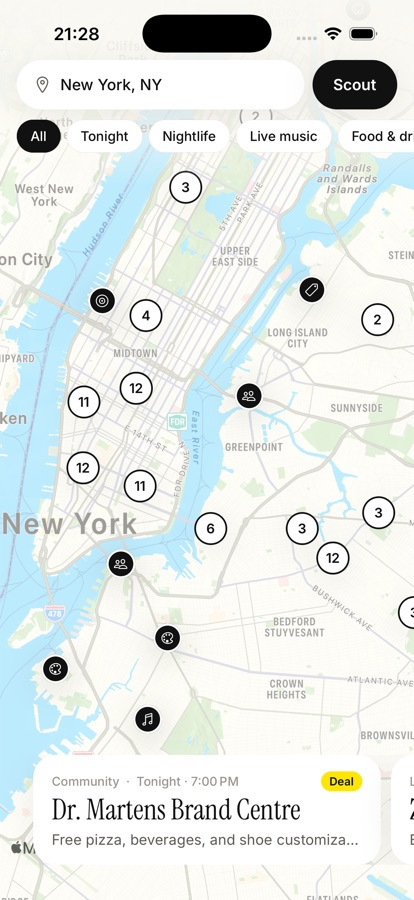
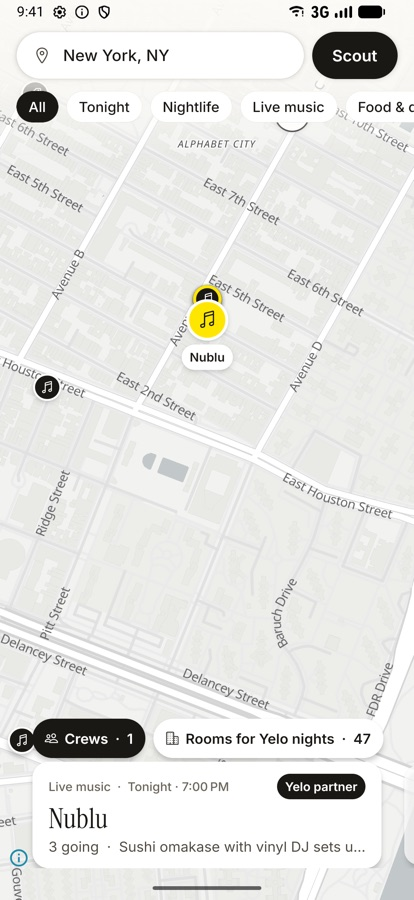
Download: build 5, fresh screenshots of the current app (map, spot, crew, rooms), accurate copy

diff --git a/site/index.html b/site/index.html
@@ -115,18 +115,18 @@
       <div class="eyebrow">A prototype built for Yelo by Farhan Sadeek</div>
       <h1>Find tonight's spots. Ride there for <em>less.</em></h1>
       <p class="lede">
-        Scout searches the web every morning for events, parties and happy hours in New York and Los Angeles,
+        Scout searches the web every few minutes for events, parties and happy hours in New York and Los Angeles,
         puts them on one map, and shows what a ride there costs. Yelo's partner venues come first.
       </p>
 
       <div class="get">
-        <a class="btn" href="https://expo.dev/artifacts/eas/HzlB0z1kTpeX4gkxvrbFKGHwZ0tDr_WKBRV1ZuLNs6M.apk" target="_blank" rel="noopener">
+        <a class="btn" href="https://expo.dev/artifacts/eas/b3r9HVFXIml9LLvEITFkU4nNjS6E40pVc_gdzTTdGA0.apk" target="_blank" rel="noopener">
           <svg viewBox="0 0 24 24" fill="none" stroke="currentColor" stroke-width="2" stroke-linecap="round" stroke-linejoin="round" aria-hidden="true"><path d="M12 4v11"/><path d="m7 10 5 5 5-5"/><path d="M5 20h14"/></svg>
           Download for Android
         </a>
         <div class="meta">
           <span>APK, installs directly. No Play Store needed.</span>
-          <a href="https://expo.dev/accounts/fsadeek/projects/scout/builds/4217e39b-9841-4e84-bd96-0c8027110ff3" target="_blank" rel="noopener">Or open the install page</a>
+          <a href="https://expo.dev/accounts/fsadeek/projects/scout/builds/2f256806-e82d-40ee-a000-87b06fb1e896" target="_blank" rel="noopener">Or open the install page</a>
         </div>
       </div>
 
@@ -136,7 +136,7 @@
       </div>
     </div>
 
-    <div class="phone"><img src="shot-map.jpg" alt="Scout's map of New York with grouped spots and a card for Nublu 151, a Yelo partner, tonight at 7 PM" width="414" height="900"></div>
+    <div class="phone"><img src="shot-map.jpg" alt="Scout's map of New York with grouped spots, Crews and Rooms buttons, and a card for Nublu, a Yelo partner, tonight at 7 PM" width="414" height="900"></div>
   </div>
 
   <section aria-labelledby="inside">
@@ -146,11 +146,11 @@
     </div>
     <div class="screens">
       <figure><img src="shot-map.jpg" alt="Map of New York spots" loading="lazy" width="414" height="900">
-        <figcaption><b>One map for the night</b>133 spots in New York this week, grouped so the map stays readable.</figcaption></figure>
-      <figure><img src="shot-spot.jpg" alt="Spot details for Cubbyhole Bar with an unlocked happy hour deal" loading="lazy" width="414" height="900">
-        <figcaption><b>Ride and Unlock</b>Each spot shows the time, the address, the deal, and a ride estimate.</figcaption></figure>
-      <figure><img src="shot-la.jpg" alt="Map of Los Angeles with a Gold-Diggers card marked Yelo partner" loading="lazy" width="414" height="900">
-        <figcaption><b>New York and LA</b>Yelo's partner rooms, like Gold-Diggers and Nublu, are marked and shown first.</figcaption></figure>
+        <figcaption><b>One map for the night</b>This week's spots, refreshed every few minutes and grouped so the map stays readable.</figcaption></figure>
+      <figure><img src="shot-spot.jpg" alt="Spot details for Nublu: time, address, price, how many are going, and Ride there" loading="lazy" width="414" height="900">
+        <figcaption><b>Ride there</b>Each spot shows the time, the address, the price, who's going, and a ride button.</figcaption></figure>
+      <figure><img src="shot-crew.jpg" alt="A crew heading to Nublu: leaving at 6:30 pm, four coming, Maya on the way" loading="lazy" width="414" height="900">
+        <figcaption><b>Head out together</b>Start a crew, send the link, and see who's coming and who's on the way.</figcaption></figure>
       <figure><img src="shot-rooms.jpg" alt="Rooms page listing venues worth pitching, with quiet nights" loading="lazy" width="414" height="900">
         <figcaption><b>Rooms worth pitching</b>Venues that could host a Yelo night, with capacity, a quiet weeknight and a contact.</figcaption></figure>
     </div>
@@ -176,7 +176,7 @@
 
   <footer>
     <span>Scout is an independent prototype. It is not an official Yelo app.</span>
-    <span class="num">Build 4 · Expo SDK 58 · data refreshed daily</span>
+    <span class="num">Build 5 · Expo SDK 58 · data refreshed daily</span>
   </footer>
 </div>
 
@@ -184,7 +184,7 @@
 <script>
   try {
     new QRCode(document.getElementById("qr"), {
-      text: "https://expo.dev/artifacts/eas/HzlB0z1kTpeX4gkxvrbFKGHwZ0tDr_WKBRV1ZuLNs6M.apk",
+      text: "https://expo.dev/artifacts/eas/b3r9HVFXIml9LLvEITFkU4nNjS6E40pVc_gdzTTdGA0.apk",
       width: 256, height: 256, colorDark: "#111111", colorLight: "#FFFFFF",
       correctLevel: QRCode.CorrectLevel.M,
     });
